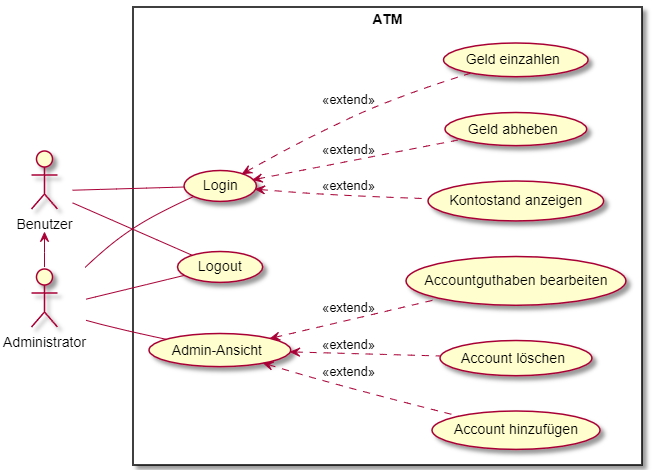
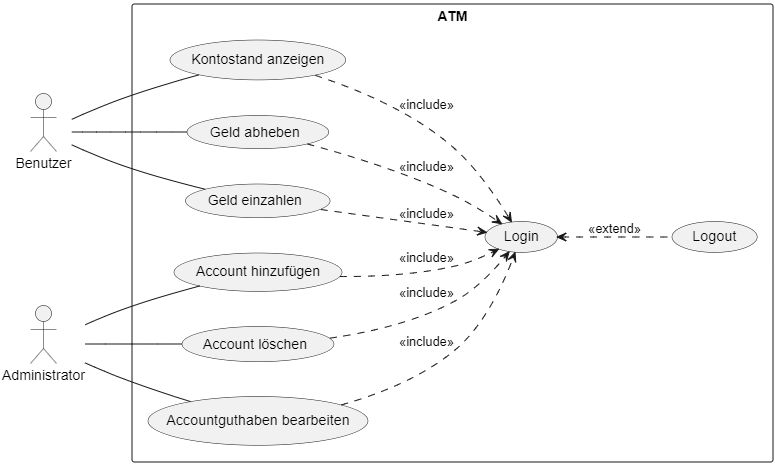
5 - Adjusted use-Case diagram and added use-case description

diff --git a/docs/docs/requirements-docs.md b/docs/docs/requirements-docs.md
@@ -155,3 +155,41 @@ Das Mengengerüst beschreibt quantitativ die Komponenten eines Projektes.
 In diesem Anwendungsfalldiagramm wird das nach außen sichtbare Verhalten des Systems aus Sicht der Nutzer beschrieben.
 
 ![df](images/usecase.png)
+
+### Use-Case Beschreibung 
+
+
+<table>
+  <tr>
+    <th>Name</th>
+    <td>ATM - Anwendungsfälle des Geldautomaten</td>
+  </tr>
+  <tr>
+    <th>Kurzbeschreibung</th>
+    <td>Dieser Use-Case beschreibt alle Funktionen, die ein Benutzer oder ein Administrator an dem Geldautomaten tätigen kann. </td>
+  </tr>
+  <tr>
+    <th>Akteure</th>
+    <td>Benutzer, Administrator</td>
+  </tr>
+  <tr>
+    <th>Vorbedingungen</th>
+    <td>Der Benutzer hat ein Konto bei der Bank.</td>
+  </tr>
+  <tr>
+    <th>Auslösendes Ereignis</th>
+    <td>Der Benutzer möchte eine Funktion des Geldautomaten benutzen. <br> Der Administrator möchte Änderungen vornehmen </td>
+  </tr>
+  <tr>
+    <th>Hauptszenario</th>
+    <td>1. Der Benutzer meldet sich an. <br>2. Das System zeigt die möglichen Funktionen an. <br>3. Der Benutzer wählt eine Funktion. <br>4. Die Funktion wird ausgeführt.<br>5. Der Benutzer meldet sich ab. </td>
+  </tr>
+  <tr>
+    <th>Alternativszenarien</th>
+    <td>1. Ein Administrator meldet sich an. <br>2. Das System zeigt die Admin-Ansicht mit den Funktionen für den Administrator an. <br>3. Der Administrator wählt eine Funktion. <br>4. Die Funktion wird ausgeführt. <br>5. Der Administrator schließt die Admin-Ansicht und meldet sich ab. </td>
+  </tr>
+  <tr>
+    <th>Nachbedingungen</th>
+    <td>Hauptszenario: Funktion des Benutzers wurde erledigt und der Benutzer hat sich abgemeldet.<br>Alternativszenario: Funktion des Administrators wurde erledigt und der Administrator hat sich abgemeldet.</td>
+  </tr>
+</table>
